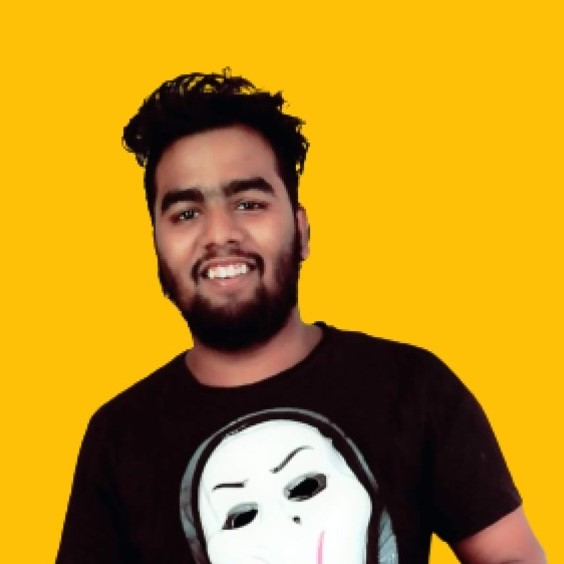
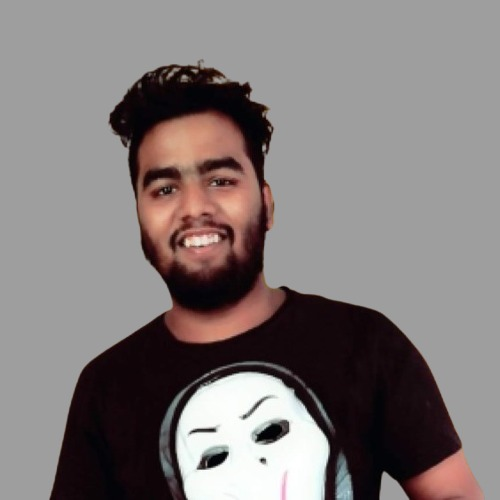
made responsive
making website responsive for team page and contact page

diff --git a/team.html b/team.html
@@ -105,7 +105,7 @@
   
             <div class="teamphoto chief_operator">
                <div class="monowar_name_photo">
-                   <div class="monowar_photo"> <img src="./team photo/amit acharjee.jpeg" alt="amit_photo"></div>
+                   <div class="monowar_photo"> <img src="./team photo/amit acha.jpg" alt="amit_photo"></div>
                    <h2 class="name">Amit acharjee</h2>
                    <h2 class="name_position">Chief Operator</h2>
                  </div>
@@ -118,7 +118,7 @@
                       <a href="https://www.instagram.com/_amit._06_._/" target="_blank"> <i class="fa fa-instagram instagram"></i></a>
                   </div>
                   <div class="social_icon linkedn">
-                      <a href="" target="_blank"><i class="fa fa-linkedin-square linkedin"></i></a>
+                      <a href="https://www.linkedin.com/in/amit--acharjee" target="_blank"><i class="fa fa-linkedin-square linkedin"></i></a>
                   </div>
                   <div class="social_icon github">
                       <a href="https://github.com/Grey-Coder" target="_blank"> <i class="fa fa-github github"></i></a>
@@ -161,7 +161,7 @@
              
                 <div class="teamsocial ">
                     <div class="social_icon facebook">
-                        <a href="#" target="_blank"><i class="fa fa-facebook-square facebook"></i></a>
+                        <a href="https://www.facebook.com/profile.php?id=100087358645732" target="_blank"><i class="fa fa-facebook-square facebook"></i></a>
                     </div>
                     <div class="social_icon instagram">
                         <a href="https://www.instagram.com/shampita_bhattacharjee/" target="_blank"> <i class="fa fa-instagram instagram"></i></a>
@@ -271,7 +271,6 @@
               </div>
   
           </div>
-        
    </div>
   
 </body>

diff --git a/css/team.css b/css/team.css
@@ -94,12 +94,7 @@ h1{
    
 } */
 
-@media only screen and (max-width: 900px) {
-    .menu{
-       display: none;
-    }
-    
-}
+
 #countdown{
     font-size: 2rem;
 }
@@ -134,7 +129,7 @@ h1{
 }
 
 .combine_photo{
-    display: flex;
+    display:flex ;
     justify-content:space-evenly;
      margin-bottom: 4rem;
 
@@ -217,4 +212,40 @@ cursor: pointer;
 
 .teamphoto img{
     width: 233px;
+}
+
+@media only screen and (max-width: 900px) {
+    .menu{
+        display: none;
+     }
+     
+    .combine_photo{
+        display:list-item;
+        justify-content:space-evenly;
+        text-align: center;
+          margin-left: 5rem;
+    }
+    .teamphoto{
+     margin-bottom: 5rem;
+     width: 72vw;
+     height: 55vh;
+     margin-left: auto;
+     margin-right: auto;
+     text-align: center;
+     
+    }
+    .teamphoto img{
+        width:55vw;
+        height:38vh;
+    }
+    .social_icon{
+        font-size: 4rem;
+        padding:2px;
+        border-radius: 0.5rem;
+        margin-left: -5rem ;
+        width: fit-content;
+        margin:1rem;
+       
+    }
+    
 }

diff --git a/css/contact.css b/css/contact.css
@@ -18,10 +18,7 @@ body{
     background-position-x: center;
     background-attachment: fixed;
     /* background-size: 100% 100%; */
-    justify-content: center;
-   
-
-   
+    justify-content: center;  
 }
 
 header{
@@ -34,7 +31,6 @@ header{
     /* padding-left: 1rem; */
     justify-content: space-around;
     width:100%;
-
 }
 .logo{
   width:max-content;
@@ -79,12 +75,7 @@ li{
 }
 
 
-@media only screen and (max-width: 900px) {
-    .menu{
-       display: none;
-    }
-    
-}
+
 
 .contact_title{
     text-align: center;
@@ -149,3 +140,22 @@ li{
     margin-top: 3rem;
     font-family:'Courier New', Courier, monospace;
  } 
+
+ @media only screen and (max-width: 900px) {
+    .menu{
+       display: none;
+    }
+    .contact_msg{
+        margin-left: 0.5rem;
+    }
+    .main_content{
+        display: inline-table;
+    }
+   .find_us{
+    width:55.5vw;
+    height: 60vh;
+    margin-bottom: 2.3rem;
+   }
+    
+    
+}

diff --git a/contact.html b/contact.html
@@ -34,7 +34,7 @@
                 <h2 class="subtittle">How To Find Us</h2>
                 <hr class="hr_line">
                 <p class="content_subtitle">
-                 Lorem ipsum dolor sit amet consectetur adipisicing elit. Adipisci sit consectetur sunt hic dicta eum voluptas molestiae dolorem eveniet aliquid, quis molestias nisi unde error dolorum excepturi quas praesentium enim.
+                  
                 </p>
                 <hr class="hr_line">
             </div>
